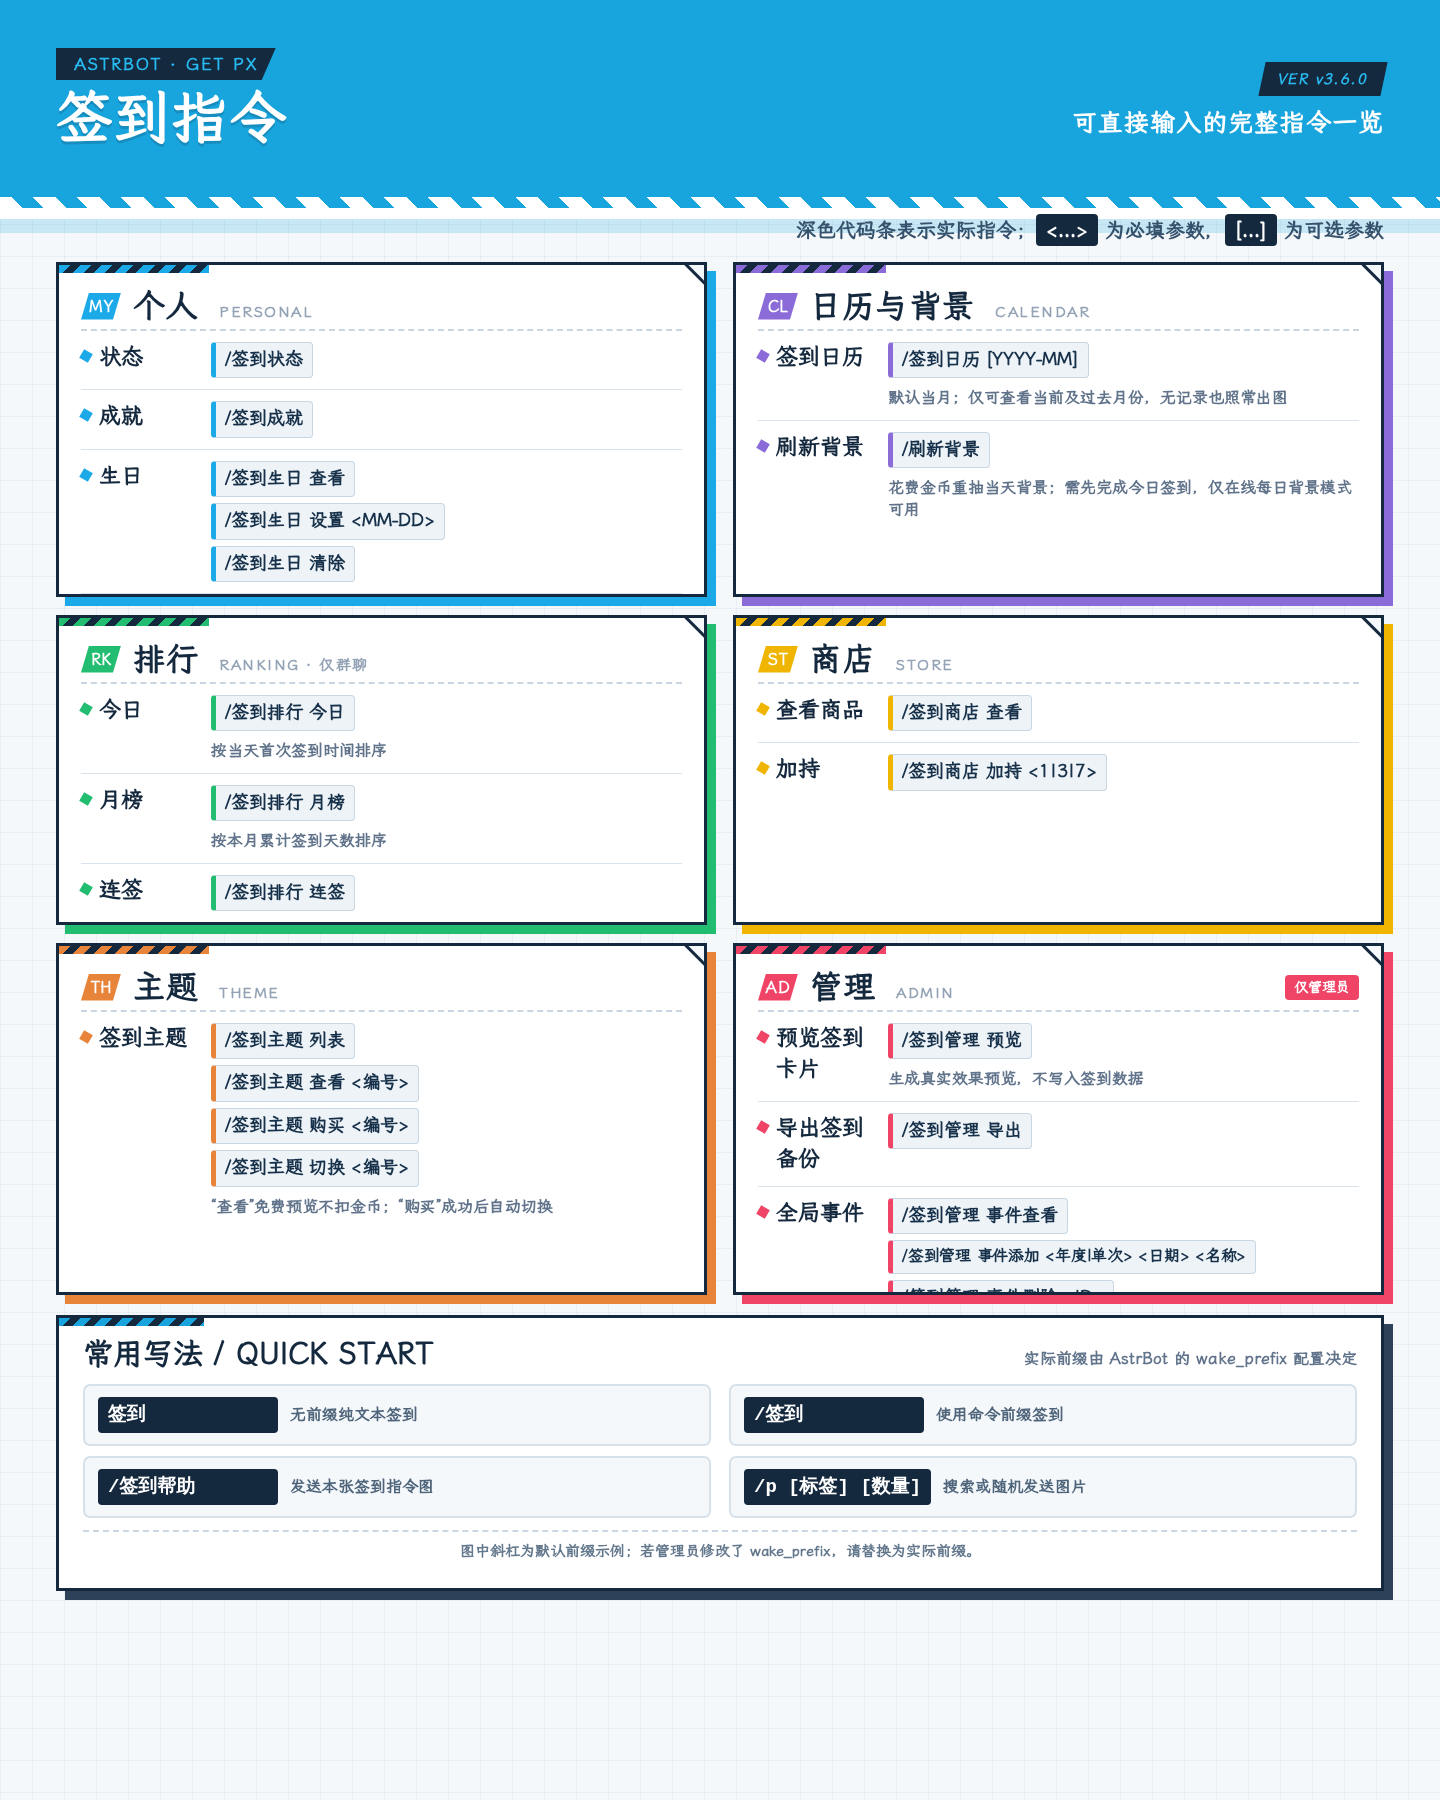
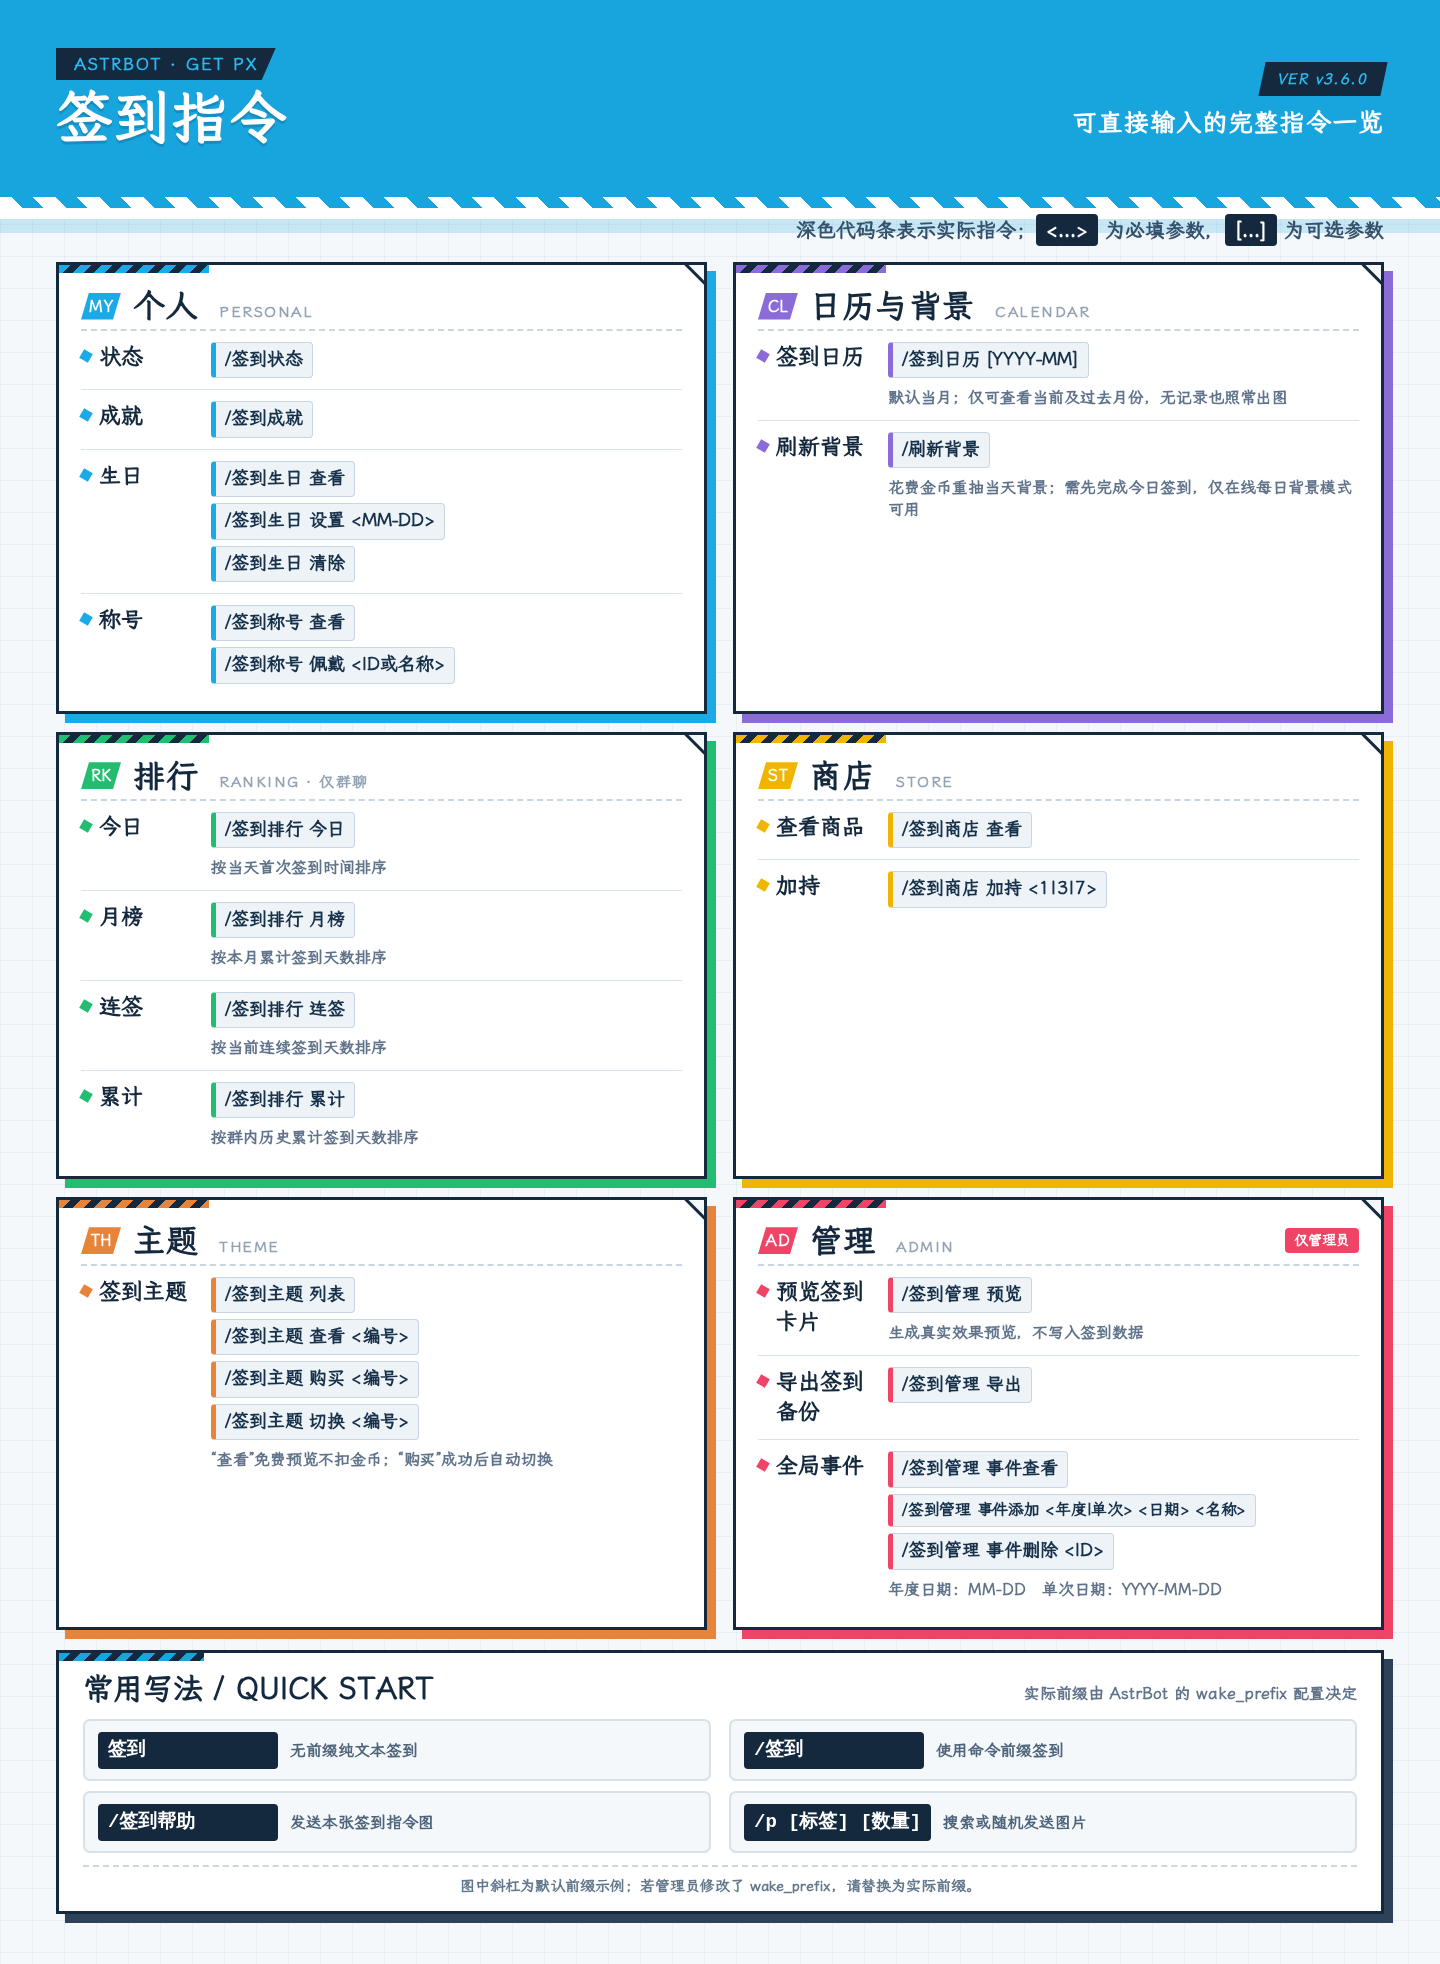
fix: adapt checkin help canvas to content height
固定 1800 高画布配合面板 overflow:hidden 会静默裁掉溢出条目
（个人-称号、排行-累计、管理-事件删除此前整段缺失）。改为宽度
1440 固定、高度随内容自适应：CSS 去掉固定高度/行高与 overflow
hidden，渲染脚本去掉 clip 保留 full_page，资产重出为 1440x1964；
尺寸断言改为宽 1440 + 高度区间，防止布局改坏且不再卡死像素。

Changed region(s): [[0.0, 0.0, 1.0, 0.9956]]

diff --git a/templates/checkin_help/style.css b/templates/checkin_help/style.css
@@ -20,9 +20,7 @@
 
 html, body {
   width: 1440px;
-  height: 1800px;
   margin: 0;
-  overflow: hidden;
 }
 
 body {
@@ -38,9 +36,7 @@ body {
 .poster {
   position: relative;
   width: 1440px;
-  height: 1800px;
   padding: 48px 56px 50px;
-  overflow: hidden;
 }
 
 .poster::before {
@@ -136,7 +132,6 @@ h1 {
 .grid {
   display: grid;
   grid-template-columns: 1fr 1fr;
-  grid-template-rows: 335px 310px 352px;
   gap: 18px 26px;
 }
 
@@ -290,7 +285,6 @@ footer {
   position: relative;
   margin-top: 20px;
   padding: 18px 24px 16px;
-  height: 276px;
   background: rgba(255, 255, 255, .97);
   border: 3px solid var(--ink);
   box-shadow: 9px 9px 0 #2d4258;

diff --git a/templates/checkin_help/render_help.py b/templates/checkin_help/render_help.py
@@ -1,4 +1,8 @@
-"""Dev-only script: regenerate assets/checkin_help_v4.png via html_render."""
+"""Dev-only script: regenerate assets/checkin_help_v4.png via html_render.
+
+画布宽度固定 1440，高度随内容自适应（full_page 截图、不传 clip）；
+新增指令使内容变高时图片自动变高，不会再被固定尺寸裁切。
+"""
 
 from __future__ import annotations
 
@@ -26,8 +30,7 @@ async def _main() -> None:
         options={
             "full_page": True,
             "type": "png",
-            "clip": {"x": 0, "y": 0, "width": 1440, "height": 1800},
-            "viewport": {"width": 1440, "height": 1800},
+            "viewport": {"width": 1440, "height": 1200},
             "animations": "disabled",
         },
     )

diff --git a/tests/test_checkin_help_asset.py b/tests/test_checkin_help_asset.py
@@ -29,9 +29,12 @@ def test_help_template_inlines_font_and_new_commands(tmp_path):
     assert "签到我的" not in html  # 旧组不再出现在帮助图
 
 
-def test_help_png_is_1440x1800_rgb():
+def test_help_png_is_1440_wide_rgb_adaptive_height():
+    """宽度固定 1440；高度随指令内容自适应（full_page 渲染，无 clip）。"""
     from PIL import Image
 
     with Image.open(main.CHECKIN_HELP_IMAGE) as img:
-        assert img.size == (1440, 1800)
+        assert img.size[0] == 1440
         assert img.mode == "RGB"
+        # 当前内容约 1900+；超出该区间说明模板布局被意外改坏
+        assert 1600 <= img.size[1] <= 2400
